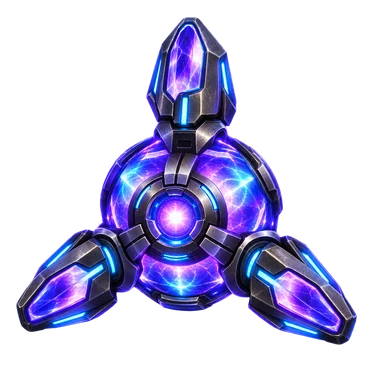
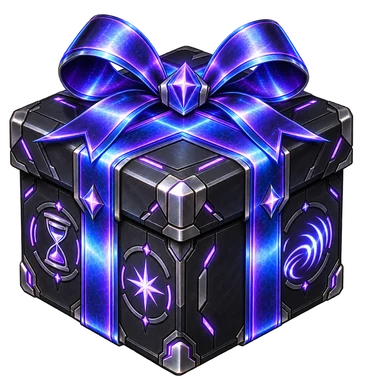
Replace pickups with clear gift box assets in V56

diff --git a/neon-survivor/index.html b/neon-survivor/index.html
@@ -1,1 +1,1 @@
-<!doctype html><html><head><meta charset="utf-8"><meta name="viewport" content="width=device-width,initial-scale=1,viewport-fit=cover,user-scalable=no"><meta name="theme-color" content="#01040a"><title>Neon Survivor — Asteroid Runner</title><style>*{box-sizing:border-box}html,body{margin:0;width:100%;height:100%;overflow:hidden;background:#01040a;color:#7ef7ff;font-family:system-ui,-apple-system,Segoe UI,sans-serif}#load{position:fixed;inset:0;display:grid;place-items:center;text-align:center;font-weight:800;letter-spacing:.16em;padding:24px}#game{position:fixed;inset:0;width:100%;height:100%;border:0;display:block;visibility:hidden;background:#01040a}#outerVersion{position:fixed;left:8px;top:max(8px,env(safe-area-inset-top));z-index:2147483647;padding:7px 10px;border:2px solid #9de5ff;border-radius:9px;background:#05070df2;color:#d9f6ff;font:900 11px/1 system-ui,-apple-system,sans-serif;letter-spacing:.11em;box-shadow:0 0 18px #68d7ff77;pointer-events:none;max-width:94vw;white-space:nowrap}</style></head><body><div id="outerVersion">V55 LIVE · WAIT</div><div id="load">LOADING V55…</div><iframe id="game" allow="autoplay; fullscreen" referrerpolicy="same-origin"></iframe><script>const badge=document.getElementById('outerVersion');let renderState='WAIT',ctrlState='WAIT',shipState='',bossState='',enemyState='';function paint(){badge.textContent='V55 LIVE · '+renderState+(shipState==='SHIPS ON'?' · SHIPS ON':shipState==='SHIP ERROR'?' · SHIP ERROR':'')+(bossState==='BOSSES ON'?' · BOSSES ON':bossState==='BOSS ERROR'?' · BOSS ERROR':'')+(enemyState==='ENEMIES ON'?' · ENEMIES ON':enemyState==='ENEMY ERROR'?' · ENEMY ERROR':'')+(ctrlState==='ON'?' · CTRL ON':ctrlState==='ERROR'?' · CTRL ERROR':'')}addEventListener('message',e=>{const d=e.data;if(!d||typeof d.status!=='string')return;if(d.source==='cinematic-v48'){renderState=d.status;paint()}else if(d.source==='controls-v48'){ctrlState=d.status;paint()}else if(d.source==='ships-v50'){shipState=d.status;paint()}else if(d.source==='bosses-v51'){bossState=d.status;paint()}else if(d.source==='enemies-v52'){enemyState=d.status;paint()}});(async()=>{const load=document.getElementById('load'),frame=document.getElementById('game');try{const parts=[];for(let i=0;i<7;i++){const r=await fetch('./v2part'+i+'.txt?v=20260913v55',{cache:'no-store'});if(!r.ok)throw new Error('v2part'+i+' '+r.status);parts.push(await r.text())}const legacy=['shop-v3a.txt?v=20260913v55','shop-v3b.txt?v=20260913v55','combat-v4.txt?v=20260913v55','progress-v5.txt?v=20260913v55','fix-v6.txt?v=20260913v55','garage-v7.txt?v=20260913v55','garage-v7b.txt?v=20260913v55','compact-v8.txt?v=20260913v55','death-v9.txt?v=20260913v55','enemy-flow-v10.txt?v=20260913v55','weapon-evolution-v11.txt?v=20260913v55','visual-v12.txt?v=20260913v55','visual-polish-v13.txt?v=20260913v55','difficulty-v14.txt?v=20260913v55','final-polish-v15.txt?v=20260913v55'];async function get(f){const r=await fetch('./'+f,{cache:'no-store'});if(!r.ok)throw new Error(f+' '+r.status);return await r.text()}const bridge=await get('bridge-v42.txt?v=20260913v55');const legacyTxt=[];for(const f of legacy)legacyTxt.push(await get(f));const gameplay=await get('gameplay-v32.txt?v=20260913v55');const art=await get('cinematic-v48-clean.txt?v=20260913v55');const gift=await get('gifts-v55.txt?v=20260913v55');const ships=await get('ships-v50.txt?v=20260913v55');const bosses=await get('bosses-v51.txt?v=20260913v55');const enemies=await get('enemies-v52.txt?v=20260913v55');const stageFlow=await get('stage-flow-v53.txt?v=20260913v55');let html=parts.join(''),k=html.lastIndexOf('})();');if(k<0)throw new Error('game closure not found');const deferred='\nsetTimeout(()=>{\ntry{\n'+gameplay+'\n}catch(e){console.error("GAMEPLAY V32 DEFERRED FAILED",e)}\ntry{\n'+art+'\n'+gift+'\n'+ships+'\n'+bosses+'\n'+enemies+'\n'+stageFlow+'\n}catch(e){console.error("CINEMATIC V55 FAILED",e);try{parent.postMessage({source:"ships-v50",status:"SHIP ERROR"},"*")}catch(_){}}\n},0);\n';const inside=bridge+'\n'+deferred+'\n'+legacyTxt.join('')+'\n';html=html.slice(0,k)+inside+'\n'+html.slice(k);frame.addEventListener('load',()=>{load.style.display='none';frame.style.visibility='visible';try{frame.contentWindow.dispatchEvent(new Event('resize'))}catch(_){}},{once:true});frame.srcdoc=html}catch(e){badge.textContent='V55 LIVE · LOAD ERROR';load.innerHTML='LOAD ERROR<br><small style="display:block;margin-top:12px;letter-spacing:.05em;color:#fff">Tap refresh and try again</small>';console.error(e)}})();</script></body></html>
+<!doctype html><html><head><meta charset="utf-8"><meta name="viewport" content="width=device-width,initial-scale=1,viewport-fit=cover,user-scalable=no"><meta name="theme-color" content="#01040a"><title>Neon Survivor — Asteroid Runner</title><style>*{box-sizing:border-box}html,body{margin:0;width:100%;height:100%;overflow:hidden;background:#01040a;color:#7ef7ff;font-family:system-ui,-apple-system,Segoe UI,sans-serif}#load{position:fixed;inset:0;display:grid;place-items:center;text-align:center;font-weight:800;letter-spacing:.16em;padding:24px}#game{position:fixed;inset:0;width:100%;height:100%;border:0;display:block;visibility:hidden;background:#01040a}#outerVersion{position:fixed;left:8px;top:max(8px,env(safe-area-inset-top));z-index:2147483647;padding:7px 10px;border:2px solid #9de5ff;border-radius:9px;background:#05070df2;color:#d9f6ff;font:900 11px/1 system-ui,-apple-system,sans-serif;letter-spacing:.11em;box-shadow:0 0 18px #68d7ff77;pointer-events:none;max-width:94vw;white-space:nowrap}</style></head><body><div id="outerVersion">V56 LIVE · WAIT</div><div id="load">LOADING V56…</div><iframe id="game" allow="autoplay; fullscreen" referrerpolicy="same-origin"></iframe><script>const badge=document.getElementById('outerVersion');let renderState='WAIT',ctrlState='WAIT',shipState='',bossState='',enemyState='';function paint(){badge.textContent='V56 LIVE · '+renderState+(shipState==='SHIPS ON'?' · SHIPS ON':shipState==='SHIP ERROR'?' · SHIP ERROR':'')+(bossState==='BOSSES ON'?' · BOSSES ON':bossState==='BOSS ERROR'?' · BOSS ERROR':'')+(enemyState==='ENEMIES ON'?' · ENEMIES ON':enemyState==='ENEMY ERROR'?' · ENEMY ERROR':'')+(ctrlState==='ON'?' · CTRL ON':ctrlState==='ERROR'?' · CTRL ERROR':'')}addEventListener('message',e=>{const d=e.data;if(!d||typeof d.status!=='string')return;if(d.source==='cinematic-v48'){renderState=d.status;paint()}else if(d.source==='controls-v48'){ctrlState=d.status;paint()}else if(d.source==='ships-v50'){shipState=d.status;paint()}else if(d.source==='bosses-v51'){bossState=d.status;paint()}else if(d.source==='enemies-v52'){enemyState=d.status;paint()}});(async()=>{const load=document.getElementById('load'),frame=document.getElementById('game');try{const parts=[];for(let i=0;i<7;i++){const r=await fetch('./v2part'+i+'.txt?v=20260913v56',{cache:'no-store'});if(!r.ok)throw new Error('v2part'+i+' '+r.status);parts.push(await r.text())}const legacy=['shop-v3a.txt?v=20260913v56','shop-v3b.txt?v=20260913v56','combat-v4.txt?v=20260913v56','progress-v5.txt?v=20260913v56','fix-v6.txt?v=20260913v56','garage-v7.txt?v=20260913v56','garage-v7b.txt?v=20260913v56','compact-v8.txt?v=20260913v56','death-v9.txt?v=20260913v56','enemy-flow-v10.txt?v=20260913v56','weapon-evolution-v11.txt?v=20260913v56','visual-v12.txt?v=20260913v56','visual-polish-v13.txt?v=20260913v56','difficulty-v14.txt?v=20260913v56','final-polish-v15.txt?v=20260913v56'];async function get(f){const r=await fetch('./'+f,{cache:'no-store'});if(!r.ok)throw new Error(f+' '+r.status);return await r.text()}const bridge=await get('bridge-v42.txt?v=20260913v56');const legacyTxt=[];for(const f of legacy)legacyTxt.push(await get(f));const gameplay=await get('gameplay-v32.txt?v=20260913v56');const art=await get('cinematic-v48-clean.txt?v=20260913v56');const gift=await get('gifts-v55.txt?v=20260913v56');const ships=await get('ships-v50.txt?v=20260913v56');const bosses=await get('bosses-v51.txt?v=20260913v56');const enemies=await get('enemies-v52.txt?v=20260913v56');const stageFlow=await get('stage-flow-v53.txt?v=20260913v56');let html=parts.join(''),k=html.lastIndexOf('})();');if(k<0)throw new Error('game closure not found');const deferred='\nsetTimeout(()=>{\ntry{\n'+gameplay+'\n}catch(e){console.error("GAMEPLAY V32 DEFERRED FAILED",e)}\ntry{\n'+art+'\n'+gift+'\n'+ships+'\n'+bosses+'\n'+enemies+'\n'+stageFlow+'\n}catch(e){console.error("CINEMATIC V56 FAILED",e);try{parent.postMessage({source:"ships-v50",status:"SHIP ERROR"},"*")}catch(_){}}\n},0);\n';const inside=bridge+'\n'+deferred+'\n'+legacyTxt.join('')+'\n';html=html.slice(0,k)+inside+'\n'+html.slice(k);frame.addEventListener('load',()=>{load.style.display='none';frame.style.visibility='visible';try{frame.contentWindow.dispatchEvent(new Event('resize'))}catch(_){}},{once:true});frame.srcdoc=html}catch(e){badge.textContent='V56 LIVE · LOAD ERROR';load.innerHTML='LOAD ERROR<br><small style="display:block;margin-top:12px;letter-spacing:.05em;color:#fff">Tap refresh and try again</small>';console.error(e)}})();</script></body></html>
